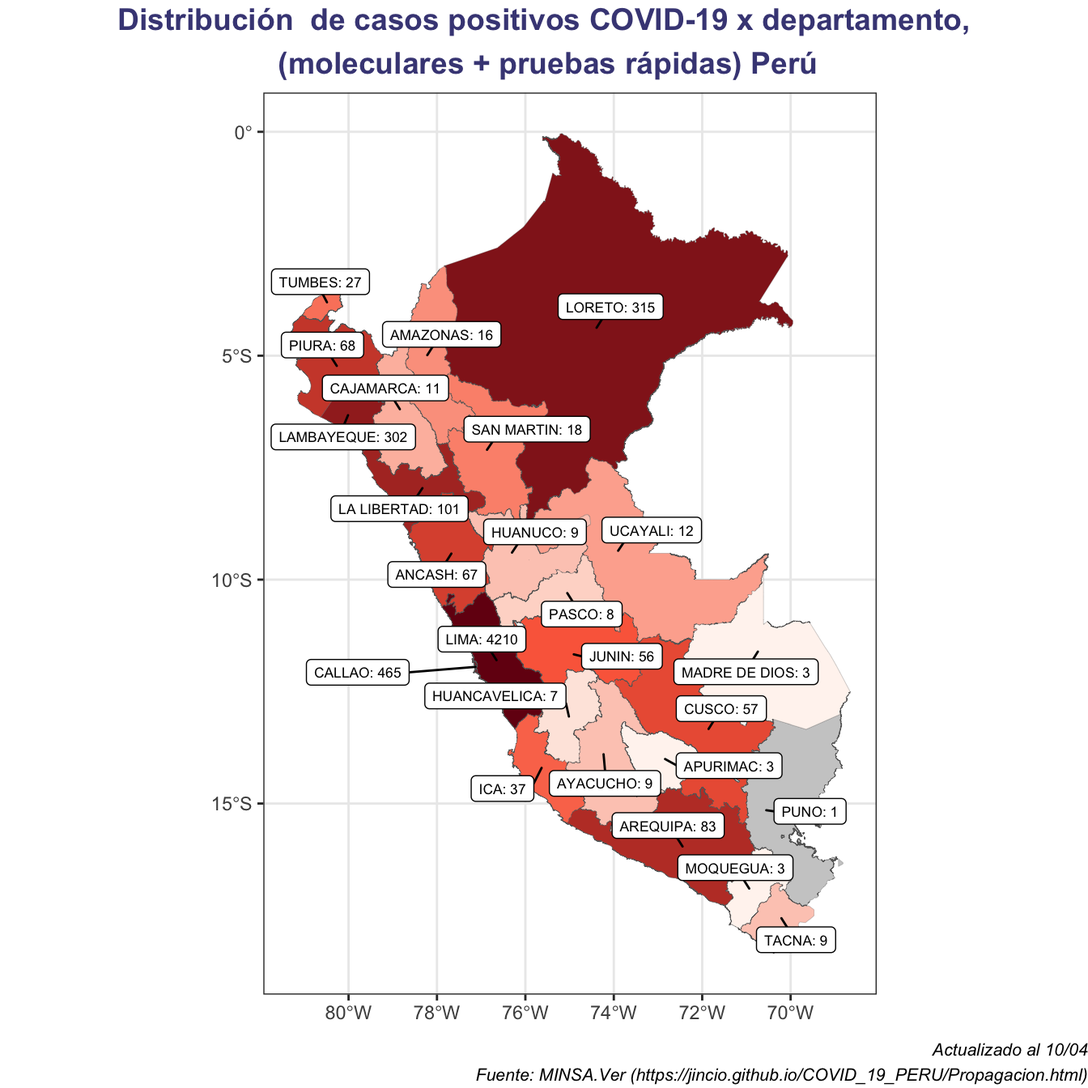
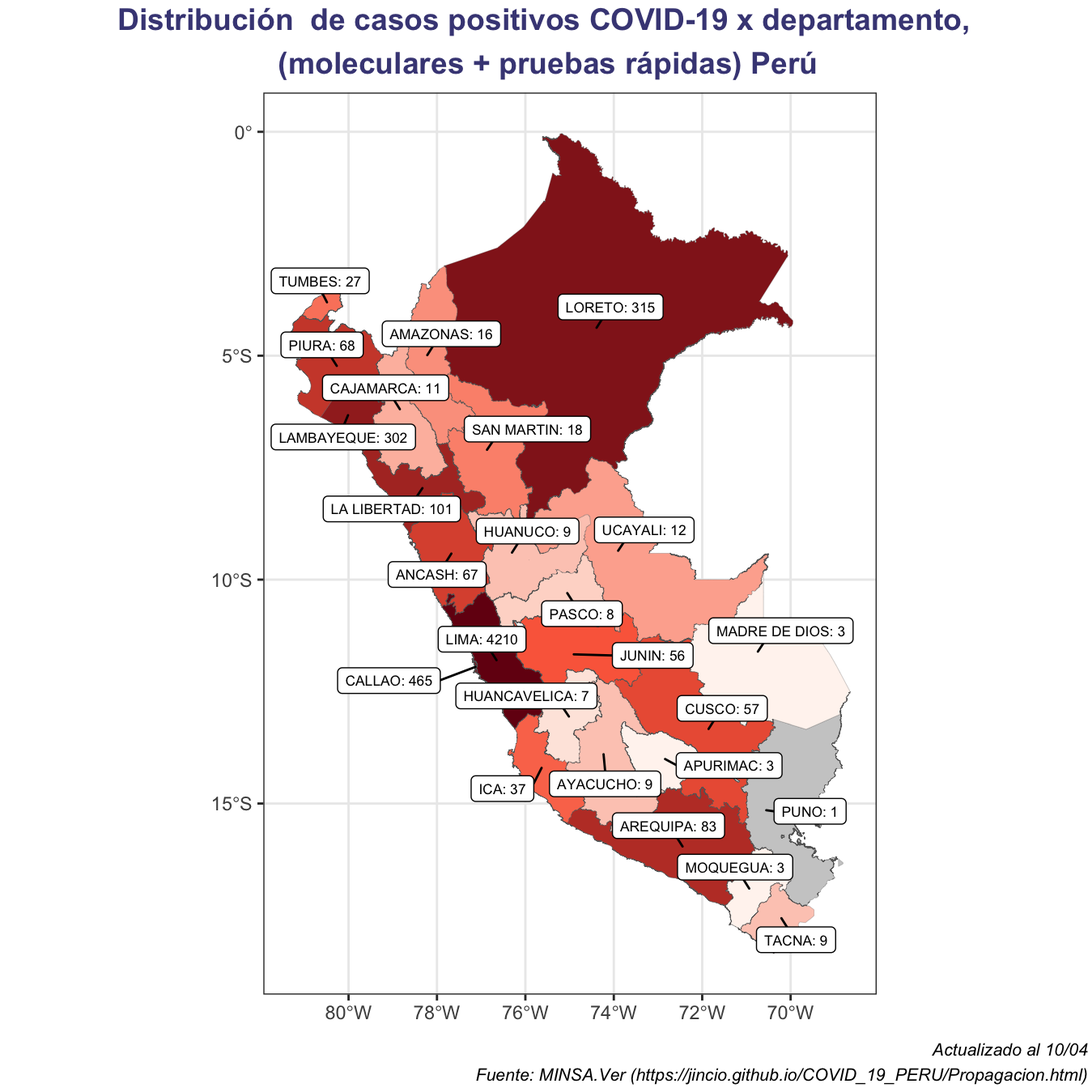
update gráficos departamentales

diff --git a/docs/Departamentos.html b/docs/Departamentos.html
@@ -384,7 +384,7 @@ div.tocify {
 <h1><span class="header-section-number">1</span> Mapa casos positivos</h1>
 <p><img src="Departamentos_files/figure-html/Panelm1-1.png" width="672" /></p>
 <div class="figure">
-<img src="Imagenes/peruheatmap-es-covid-enero-abril-6.gif" alt="Gif" />
+<img src="Imagenes/peruheatmap-es-covid-hasta-abril-9.gif" alt="Gif" />
 <p class="caption">Gif</p>
 </div>
 <div id="mapas-fallecidos" class="section level2">
@@ -396,9 +396,9 @@ div.tocify {
 <h1><span class="header-section-number">2</span> Tendencias por departamento</h1>
 <div id="comparadas-con-nacional-y-lima" class="section level2">
 <h2><span class="header-section-number">2.1</span> Comparadas con Nacional y Lima</h2>
-<p><img src="Imagenes/tendenciaCaso10-nacional-departamento-abril-8.png" width="80%" /></p>
-<p><img src="Imagenes/tendenciaCaso100-nacional-departamento-abril-8.png" width="80%" /></p>
-<p><img src="Imagenes/tendenciaFallecimiento3-nacional-departamento-abril-8.png" width="80%" /></p>
+<p><img src="Imagenes/tendenciaCaso10-nacional-departamento-abril-9.png" width="80%" /></p>
+<p><img src="Imagenes/tendenciaCaso100-nacional-departamento-abril-9.png" width="80%" /></p>
+<p><img src="Imagenes/tendenciaFallecimiento3-nacional-departamento-abril-9.png" width="80%" /></p>
 </div>
 <div id="por-macro-region" class="section level2">
 <h2><span class="header-section-number">2.2</span> Por Macro-Región</h2>
@@ -422,8 +422,8 @@ div.tocify {
 </div>
 <div id="tabla" class="section level1">
 <h1><span class="header-section-number">3</span> Tabla</h1>
-<div id="htmlwidget-d9958a0504077a23353c" style="width:100%;height:auto;" class="datatables html-widget"></div>
-<script type="application/json" data-for="htmlwidget-d9958a0504077a23353c">{"x":{"filter":"none","data":[["LIMA","LORETO","LAMBAYEQUE","CALLAO","LA LIBERTAD","AREQUIPA","PIURA","ANCASH","CUSCO","JUNIN","ICA","TUMBES","SAN MARTIN","AYACUCHO","TACNA","CAJAMARCA","PASCO","HUANCAVELICA","HUANUCO","AMAZONAS","MADRE DE DIOS","APURIMAC","MOQUEGUA","PUNO","UCAYALI","LIMA","LORETO","LAMBAYEQUE","CALLAO","LA LIBERTAD","AREQUIPA","CUSCO","ANCASH","PIURA","JUNIN","ICA","TUMBES","SAN MARTIN","TACNA","CAJAMARCA","AYACUCHO","HUANCAVELICA","HUANUCO","PASCO","MADRE DE DIOS","AMAZONAS","APURIMAC","MOQUEGUA","PUNO","LIMA","LORETO","LAMBAYEQUE","CALLAO","LA LIBERTAD","AREQUIPA","CUSCO","ANCASH","JUNIN","PIURA","ICA","TUMBES","SAN MARTIN","TACNA","CAJAMARCA","HUANCAVELICA","HUANUCO","AYACUCHO","PASCO","MADRE DE DIOS","AMAZONAS","APURIMAC","MOQUEGUA","PUNO","LIMA","LORETO","CALLAO","LAMBAYEQUE","AREQUIPA","LA LIBERTAD","CUSCO","ANCASH","PIURA","JUNIN","TUMBES","ICA","TACNA","SAN MARTIN","HUANCAVELICA","CAJAMARCA","HUANUCO","AYACUCHO","PASCO","MADRE DE DIOS","APURIMAC","MOQUEGUA","PUNO","LIMA","LORETO","CALLAO","LAMBAYEQUE","AREQUIPA","LA LIBERTAD","CUSCO","PIURA","JUNIN","ANCASH","TUMBES","ICA","TACNA","SAN MARTIN","CAJAMARCA","HUANUCO","AYACUCHO","PASCO","HUANCAVELICA","MADRE DE DIOS","APURIMAC","MOQUEGUA","LIMA","LORETO","LAMBAYEQUE","CALLAO","CUSCO","AREQUIPA","LA LIBERTAD","PIURA","TUMBES","JUNIN","ANCASH","ICA","TACNA","SAN MARTIN","CAJAMARCA","HUANUCO","AYACUCHO","PASCO","MADRE DE DIOS","HUANCAVELICA","APURIMAC","MOQUEGUA","LIMA","LORETO","CALLAO","LAMBAYEQUE","LA LIBERTAD","CUSCO","AREQUIPA","PIURA","JUNIN","TUMBES","ANCASH","ICA","SAN MARTIN","CAJAMARCA","HUANUCO","TACNA","MADRE DE DIOS","PASCO","AYACUCHO","HUANCAVELICA","APURIMAC","LIMA","LORETO","CALLAO","CUSCO","LA LIBERTAD","AREQUIPA","LAMBAYEQUE","PIURA","JUNIN","ANCASH","TUMBES","ICA","HUANUCO","SAN MARTIN","CAJAMARCA","TACNA","MADRE DE DIOS","AYACUCHO","HUANCAVELICA","PASCO","APURIMAC","LIMA","LORETO","CALLAO","CUSCO","LAMBAYEQUE","LA LIBERTAD","AREQUIPA","PIURA","JUNIN","ANCASH","TUMBES","ICA","HUANUCO","SAN MARTIN","CAJAMARCA","TACNA","MADRE DE DIOS","PASCO","AYACUCHO","HUANCAVELICA","LIMA","LORETO","CALLAO","LAMBAYEQUE","CUSCO","LA LIBERTAD","AREQUIPA","PIURA","JUNIN","ANCASH","TUMBES","ICA","HUANUCO","SAN MARTIN","TACNA","CAJAMARCA","MADRE DE DIOS","PASCO","AYACUCHO","HUANCAVELICA","LIMA","LORETO","LAMBAYEQUE","CUSCO","AREQUIPA","CALLAO","PIURA","LA LIBERTAD","JUNIN","ANCASH","TUMBES","HUANUCO","SAN MARTIN","ICA","TACNA","MADRE DE DIOS","CAJAMARCA","PASCO","AYACUCHO","LIMA","LORETO","CUSCO","CALLAO","LAMBAYEQUE","PIURA","AREQUIPA","LA LIBERTAD","JUNIN","ANCASH","TUMBES","ICA","SAN MARTIN","HUANUCO","MADRE DE DIOS","CAJAMARCA","PASCO","TACNA","AYACUCHO","LIMA","LORETO","CALLAO","LAMBAYEQUE","PIURA","CUSCO","AREQUIPA","JUNIN","LA LIBERTAD","TUMBES","ANCASH","ICA","HUANUCO","SAN MARTIN","MADRE DE DIOS","CAJAMARCA","PASCO","TACNA","AYACUCHO","LIMA","LORETO","PIURA","CALLAO","LAMBAYEQUE","AREQUIPA","JUNIN","CUSCO","LA LIBERTAD","ANCASH","TUMBES","HUANUCO","ICA","SAN MARTIN","MADRE DE DIOS","CAJAMARCA","PASCO","LIMA","LORETO","PIURA","CALLAO","AREQUIPA","LAMBAYEQUE","JUNIN","CUSCO","LA LIBERTAD","ANCASH","TUMBES","HUANUCO","ICA","MADRE DE DIOS","SAN MARTIN","CAJAMARCA","PASCO","LIMA","PIURA","LORETO","CALLAO","AREQUIPA","LAMBAYEQUE","JUNIN","CUSCO","LA LIBERTAD","ANCASH","ICA","TUMBES","HUANUCO","MADRE DE DIOS","SAN MARTIN","CAJAMARCA","LIMA","PIURA","LORETO","LAMBAYEQUE","JUNIN","CALLAO","CUSCO","AREQUIPA","LA LIBERTAD","ANCASH","TUMBES","HUANUCO","ICA","MADRE DE DIOS","SAN MARTIN","CAJAMARCA","LIMA","PIURA","LORETO","JUNIN","AREQUIPA","LAMBAYEQUE","CALLAO","CUSCO","LA LIBERTAD","ANCASH","TUMBES","HUANUCO","ICA","MADRE DE DIOS","SAN MARTIN","LIMA","PIURA","LORETO","JUNIN","LAMBAYEQUE","CALLAO","AREQUIPA","CUSCO","LA LIBERTAD","ANCASH","HUANUCO","ICA","MADRE DE DIOS","SAN MARTIN","LIMA","PIURA","LORETO","JUNIN","LAMBAYEQUE","AREQUIPA","CALLAO","LA LIBERTAD","CUSCO","ANCASH","HUANUCO","ICA","MADRE DE DIOS","LIMA","PIURA","LORETO","JUNIN","LAMBAYEQUE","CALLAO","LA LIBERTAD","CUSCO","ANCASH","AREQUIPA","HUANUCO","ICA","MADRE DE DIOS","LIMA","LORETO","JUNIN","LAMBAYEQUE","CALLAO","CUSCO","ANCASH","AREQUIPA","HUANUCO","LA LIBERTAD","PIURA","ICA","MADRE DE DIOS","LIMA","LORETO","LAMBAYEQUE","CALLAO","ANCASH","CUSCO","AREQUIPA","LA LIBERTAD","HUANUCO","PIURA","ICA","MADRE DE DIOS","SAN MARTIN","LIMA","LORETO","LAMBAYEQUE","CALLAO","ANCASH","AREQUIPA","HUANUCO","LA LIBERTAD","PIURA","CUSCO","ICA","MADRE DE DIOS","LIMA","LAMBAYEQUE","CALLAO","AREQUIPA","HUANUCO","PIURA","ANCASH","CUSCO","ICA","LA LIBERTAD","LORETO","LIMA","CALLAO","LAMBAYEQUE","AREQUIPA","HUANUCO","PIURA","ANCASH","CUSCO","ICA","LA LIBERTAD","LIMA","AREQUIPA","CALLAO","HUANUCO","PIURA","ANCASH","CUSCO","ICA","LA LIBERTAD","LAMBAYEQUE","LIMA","AREQUIPA","HUANUCO","CUSCO","ICA","LIMA","AREQUIPA","HUANUCO","CUSCO","ICA","LIMA","LIMA","LIMA","LIMA","LIMA","LIMA","LIMA"],[3148,314,294,250,87,75,64,61,57,55,37,27,18,9,9,8,8,7,7,7,3,2,1,1,0,2822,314,294,212,83,69,55,54,50,41,34,27,15,9,8,7,7,7,5,3,2,1,1,1,2481,289,243,165,72,67,54,48,41,40,28,27,11,9,8,7,7,5,5,2,2,1,1,1,2100,206,161,108,66,58,54,36,35,28,27,24,9,8,7,6,6,5,5,2,1,1,1,1837,171,109,100,60,56,54,30,28,27,26,18,9,8,6,6,5,5,2,2,1,1,1639,143,100,89,52,51,50,29,26,25,23,14,9,8,6,6,3,3,2,1,1,1,1257,106,64,55,50,48,37,27,25,20,18,9,8,6,6,3,2,2,1,1,1,1179,84,59,44,44,37,35,27,19,18,16,8,6,6,4,3,2,1,1,1,1,1059,72,40,38,37,34,30,27,17,15,15,8,6,6,3,3,1,1,1,1,990,66,37,34,34,32,30,26,17,15,13,8,6,6,3,2,1,1,1,1,799,58,30,26,26,25,21,19,17,11,10,6,6,5,2,1,1,1,1,718,53,25,24,22,21,21,15,13,11,8,5,5,4,1,1,1,1,1,639,52,29,22,21,17,15,13,13,8,6,5,4,3,1,1,1,1,1,518,27,20,18,15,15,12,11,10,6,6,4,4,2,1,1,1,494,23,20,17,15,13,12,10,9,6,5,4,3,1,1,1,1,453,20,18,15,15,12,11,10,9,6,3,3,2,1,1,1,369,19,18,12,11,10,10,10,6,5,3,2,2,1,1,1,322,19,16,10,9,8,8,6,5,4,3,2,2,1,1,307,19,16,10,8,8,7,6,4,4,2,2,1,1,278,19,16,10,8,7,6,5,4,4,4,1,1,241,18,14,10,8,6,5,4,4,4,2,1,1,212,12,9,6,5,4,4,3,2,2,2,1,1,193,11,6,5,4,4,3,2,2,2,1,1,1,111,10,6,5,2,2,2,2,2,1,1,1,96,6,4,2,2,2,1,1,1,1,1,70,3,3,2,2,2,1,1,1,1,58,2,2,2,2,1,1,1,1,1,37,2,2,1,1,32,2,2,1,1,22,17,11,9,7,6,1],[1062,1,8,215,14,8,4,6,0,1,0,0,0,0,0,3,0,0,2,9,0,1,2,0,12,882,1,8,201,13,8,0,3,3,1,0,0,0,0,3,0,0,2,0,0,8,0,2,0,535,1,3,155,10,7,0,2,1,1,0,0,0,0,2,0,0,0,0,0,9,0,2,0,null,null,null,null,null,null,null,null,null,null,null,null,null,null,null,null,null,null,null,null,null,null,null,null,null,null,null,null,null,null,null,null,null,null,null,null,null,null,null,null,null,null,null,null,null,null,null,null,null,null,null,null,null,null,null,null,null,null,null,null,null,null,null,null,null,null,null,null,null,null,null,null,null,null,null,null,null,null,null,null,null,null,null,null,null,null,null,null,null,null,null,null,null,null,null,null,null,null,null,null,null,null,null,null,null,null,null,null,null,null,null,null,null,null,null,null,null,null,null,null,null,null,null,null,null,null,null,null,null,null,null,null,null,null,null,null,null,null,null,null,null,null,null,null,null,null,null,null,null,null,null,null,null,null,null,null,null,null,null,null,null,null,null,null,null,null,null,null,null,null,null,null,null,null,null,null,null,null,null,null,null,null,null,null,null,null,null,null,null,null,null,null,null,null,null,null,null,null,null,null,null,null,null,null,null,null,null,null,null,null,null,null,null,null,null,null,null,null,null,null,null,null,null,null,null,null,null,null,null,null,null,null,null,null,null,null,null,null,null,null,null,null,null,null,null,null,null,null,null,null,null,null,null,null,null,null,null,null,null,null,null,null,null,null,null,null,null,null,null,null,null,null,null,null,null,null,null,null,null,null,null,null,null,null,null,null,null,null,null,null,null,null,null,null,null,null,null,null,null,null,null,null,null,null,null,null,null,null,null,null,null,null,null,null,null,null,null,null,null,null,null,null,null,null,null,null,null,null,null,null,null,null,null,null,null,null,null,null,null,null,null,null,null,null,null,null,null,null,null,null,null,null,null,null,null,null,null,null,null,null,null,null,null,null,null,null,null,null,null,null,null,null,null,null,null,null,null,null,null,null,null,null,null,null,null,null,null,null,null,null,null,null,null,null,null,null,null,null,null,null,null,null,null,null,null,null,null,null,null,null,null,null,null],[4210,315,302,465,101,83,68,67,57,56,37,27,18,9,9,11,8,7,9,16,3,3,3,1,12,3704,315,302,413,96,77,55,57,53,42,34,27,15,9,11,7,7,9,5,3,10,1,3,1,3016,290,246,320,82,74,54,50,42,41,28,27,11,9,10,7,7,5,5,2,11,1,3,1,2100,206,161,108,66,58,54,36,35,28,27,24,9,8,7,6,6,5,5,2,1,1,1,1837,171,109,100,60,56,54,30,28,27,26,18,9,8,6,6,5,5,2,2,1,1,1639,143,100,89,52,51,50,29,26,25,23,14,9,8,6,6,3,3,2,1,1,1,1257,106,64,55,50,48,37,27,25,20,18,9,8,6,6,3,2,2,1,1,1,1179,84,59,44,44,37,35,27,19,18,16,8,6,6,4,3,2,1,1,1,1,1059,72,40,38,37,34,30,27,17,15,15,8,6,6,3,3,1,1,1,1,990,66,37,34,34,32,30,26,17,15,13,8,6,6,3,2,1,1,1,1,799,58,30,26,26,25,21,19,17,11,10,6,6,5,2,1,1,1,1,718,53,25,24,22,21,21,15,13,11,8,5,5,4,1,1,1,1,1,639,52,29,22,21,17,15,13,13,8,6,5,4,3,1,1,1,1,1,518,27,20,18,15,15,12,11,10,6,6,4,4,2,1,1,1,494,23,20,17,15,13,12,10,9,6,5,4,3,1,1,1,1,453,20,18,15,15,12,11,10,9,6,3,3,2,1,1,1,369,19,18,12,11,10,10,10,6,5,3,2,2,1,1,1,322,19,16,10,9,8,8,6,5,4,3,2,2,1,1,307,19,16,10,8,8,7,6,4,4,2,2,1,1,278,19,16,10,8,7,6,5,4,4,4,1,1,241,18,14,10,8,6,5,4,4,4,2,1,1,212,12,9,6,5,4,4,3,2,2,2,1,1,193,11,6,5,4,4,3,2,2,2,1,1,1,111,10,6,5,2,2,2,2,2,1,1,1,96,6,4,2,2,2,1,1,1,1,1,70,3,3,2,2,2,1,1,1,1,58,2,2,2,2,1,1,1,1,1,37,2,2,1,1,32,2,2,1,1,22,17,11,9,7,6,1],["2020-04-10","2020-04-10","2020-04-10","2020-04-10","2020-04-10","2020-04-10","2020-04-10","2020-04-10","2020-04-10","2020-04-10","2020-04-10","2020-04-10","2020-04-10","2020-04-10","2020-04-10","2020-04-10","2020-04-10","2020-04-10","2020-04-10","2020-04-10","2020-04-10","2020-04-10","2020-04-10","2020-04-10","2020-04-10","2020-04-09","2020-04-09","2020-04-09","2020-04-09","2020-04-09","2020-04-09","2020-04-09","2020-04-09","2020-04-09","2020-04-09","2020-04-09","2020-04-09","2020-04-09","2020-04-09","2020-04-09","2020-04-09","2020-04-09","2020-04-09","2020-04-09","2020-04-09","2020-04-09","2020-04-09","2020-04-09","2020-04-09","2020-04-08","2020-04-08","2020-04-08","2020-04-08","2020-04-08","2020-04-08","2020-04-08","2020-04-08","2020-04-08","2020-04-08","2020-04-08","2020-04-08","2020-04-08","2020-04-08","2020-04-08","2020-04-08","2020-04-08","2020-04-08","2020-04-08","2020-04-08","2020-04-08","2020-04-08","2020-04-08","2020-04-08","2020-04-07","2020-04-07","2020-04-07","2020-04-07","2020-04-07","2020-04-07","2020-04-07","2020-04-07","2020-04-07","2020-04-07","2020-04-07","2020-04-07","2020-04-07","2020-04-07","2020-04-07","2020-04-07","2020-04-07","2020-04-07","2020-04-07","2020-04-07","2020-04-07","2020-04-07","2020-04-07","2020-04-06","2020-04-06","2020-04-06","2020-04-06","2020-04-06","2020-04-06","2020-04-06","2020-04-06","2020-04-06","2020-04-06","2020-04-06","2020-04-06","2020-04-06","2020-04-06","2020-04-06","2020-04-06","2020-04-06","2020-04-06","2020-04-06","2020-04-06","2020-04-06","2020-04-06","2020-04-05","2020-04-05","2020-04-05","2020-04-05","2020-04-05","2020-04-05","2020-04-05","2020-04-05","2020-04-05","2020-04-05","2020-04-05","2020-04-05","2020-04-05","2020-04-05","2020-04-05","2020-04-05","2020-04-05","2020-04-05","2020-04-05","2020-04-05","2020-04-05","2020-04-05","2020-04-04","2020-04-04","2020-04-04","2020-04-04","2020-04-04","2020-04-04","2020-04-04","2020-04-04","2020-04-04","2020-04-04","2020-04-04","2020-04-04","2020-04-04","2020-04-04","2020-04-04","2020-04-04","2020-04-04","2020-04-04","2020-04-04","2020-04-04","2020-04-04","2020-04-03","2020-04-03","2020-04-03","2020-04-03","2020-04-03","2020-04-03","2020-04-03","2020-04-03","2020-04-03","2020-04-03","2020-04-03","2020-04-03","2020-04-03","2020-04-03","2020-04-03","2020-04-03","2020-04-03","2020-04-03","2020-04-03","2020-04-03","2020-04-03","2020-04-02","2020-04-02","2020-04-02","2020-04-02","2020-04-02","2020-04-02","2020-04-02","2020-04-02","2020-04-02","2020-04-02","2020-04-02","2020-04-02","2020-04-02","2020-04-02","2020-04-02","2020-04-02","2020-04-02","2020-04-02","2020-04-02","2020-04-02","2020-04-01","2020-04-01","2020-04-01","2020-04-01","2020-04-01","2020-04-01","2020-04-01","2020-04-01","2020-04-01","2020-04-01","2020-04-01","2020-04-01","2020-04-01","2020-04-01","2020-04-01","2020-04-01","2020-04-01","2020-04-01","2020-04-01","2020-04-01","2020-03-31","2020-03-31","2020-03-31","2020-03-31","2020-03-31","2020-03-31","2020-03-31","2020-03-31","2020-03-31","2020-03-31","2020-03-31","2020-03-31","2020-03-31","2020-03-31","2020-03-31","2020-03-31","2020-03-31","2020-03-31","2020-03-31","2020-03-30","2020-03-30","2020-03-30","2020-03-30","2020-03-30","2020-03-30","2020-03-30","2020-03-30","2020-03-30","2020-03-30","2020-03-30","2020-03-30","2020-03-30","2020-03-30","2020-03-30","2020-03-30","2020-03-30","2020-03-30","2020-03-30","2020-03-29","2020-03-29","2020-03-29","2020-03-29","2020-03-29","2020-03-29","2020-03-29","2020-03-29","2020-03-29","2020-03-29","2020-03-29","2020-03-29","2020-03-29","2020-03-29","2020-03-29","2020-03-29","2020-03-29","2020-03-29","2020-03-29","2020-03-28","2020-03-28","2020-03-28","2020-03-28","2020-03-28","2020-03-28","2020-03-28","2020-03-28","2020-03-28","2020-03-28","2020-03-28","2020-03-28","2020-03-28","2020-03-28","2020-03-28","2020-03-28","2020-03-28","2020-03-27","2020-03-27","2020-03-27","2020-03-27","2020-03-27","2020-03-27","2020-03-27","2020-03-27","2020-03-27","2020-03-27","2020-03-27","2020-03-27","2020-03-27","2020-03-27","2020-03-27","2020-03-27","2020-03-27","2020-03-26","2020-03-26","2020-03-26","2020-03-26","2020-03-26","2020-03-26","2020-03-26","2020-03-26","2020-03-26","2020-03-26","2020-03-26","2020-03-26","2020-03-26","2020-03-26","2020-03-26","2020-03-26","2020-03-25","2020-03-25","2020-03-25","2020-03-25","2020-03-25","2020-03-25","2020-03-25","2020-03-25","2020-03-25","2020-03-25","2020-03-25","2020-03-25","2020-03-25","2020-03-25","2020-03-25","2020-03-25","2020-03-24","2020-03-24","2020-03-24","2020-03-24","2020-03-24","2020-03-24","2020-03-24","2020-03-24","2020-03-24","2020-03-24","2020-03-24","2020-03-24","2020-03-24","2020-03-24","2020-03-24","2020-03-23","2020-03-23","2020-03-23","2020-03-23","2020-03-23","2020-03-23","2020-03-23","2020-03-23","2020-03-23","2020-03-23","2020-03-23","2020-03-23","2020-03-23","2020-03-23","2020-03-22","2020-03-22","2020-03-22","2020-03-22","2020-03-22","2020-03-22","2020-03-22","2020-03-22","2020-03-22","2020-03-22","2020-03-22","2020-03-22","2020-03-22","2020-03-21","2020-03-21","2020-03-21","2020-03-21","2020-03-21","2020-03-21","2020-03-21","2020-03-21","2020-03-21","2020-03-21","2020-03-21","2020-03-21","2020-03-21","2020-03-20","2020-03-20","2020-03-20","2020-03-20","2020-03-20","2020-03-20","2020-03-20","2020-03-20","2020-03-20","2020-03-20","2020-03-20","2020-03-20","2020-03-20","2020-03-19","2020-03-19","2020-03-19","2020-03-19","2020-03-19","2020-03-19","2020-03-19","2020-03-19","2020-03-19","2020-03-19","2020-03-19","2020-03-19","2020-03-19","2020-03-18","2020-03-18","2020-03-18","2020-03-18","2020-03-18","2020-03-18","2020-03-18","2020-03-18","2020-03-18","2020-03-18","2020-03-18","2020-03-18","2020-03-17","2020-03-17","2020-03-17","2020-03-17","2020-03-17","2020-03-17","2020-03-17","2020-03-17","2020-03-17","2020-03-17","2020-03-17","2020-03-16","2020-03-16","2020-03-16","2020-03-16","2020-03-16","2020-03-16","2020-03-16","2020-03-16","2020-03-16","2020-03-16","2020-03-15","2020-03-15","2020-03-15","2020-03-15","2020-03-15","2020-03-15","2020-03-15","2020-03-15","2020-03-15","2020-03-15","2020-03-14","2020-03-14","2020-03-14","2020-03-14","2020-03-14","2020-03-13","2020-03-13","2020-03-13","2020-03-13","2020-03-13","2020-03-12","2020-03-11","2020-03-10","2020-03-09","2020-03-08","2020-03-07","2020-03-06"]],"container":"<table class=\"display\">\n  <thead>\n    <tr>\n      <th>REGION<\/th>\n      <th>Positivos_PCR<\/th>\n      <th>Positivos_PR<\/th>\n      <th>Positivos_totales<\/th>\n      <th>Dia<\/th>\n    <\/tr>\n  <\/thead>\n<\/table>","options":{"pageLength":10,"lengthMenu":[10,25,40],"language":{"lengthMenu":"Mostrar _MENU_ entradas","info":"Mostrando _START_ al _END_ de _TOTAL_ entradas","search":"Buscar:","paginate":{"previous":"Anterior","next":"Siguiente"}},"columnDefs":[{"className":"dt-right","targets":[1,2,3]}],"order":[],"autoWidth":false,"orderClasses":false}},"evals":[],"jsHooks":[]}</script>
+<div id="htmlwidget-1ff28c8acfaf17acd462" style="width:100%;height:auto;" class="datatables html-widget"></div>
+<script type="application/json" data-for="htmlwidget-1ff28c8acfaf17acd462">{"x":{"filter":"none","data":[["LIMA","LORETO","LAMBAYEQUE","CALLAO","LA LIBERTAD","AREQUIPA","PIURA","ANCASH","CUSCO","JUNIN","ICA","TUMBES","SAN MARTIN","AYACUCHO","TACNA","CAJAMARCA","PASCO","HUANCAVELICA","HUANUCO","AMAZONAS","MADRE DE DIOS","APURIMAC","MOQUEGUA","PUNO","UCAYALI","LIMA","LORETO","LAMBAYEQUE","CALLAO","LA LIBERTAD","AREQUIPA","CUSCO","ANCASH","PIURA","JUNIN","ICA","TUMBES","SAN MARTIN","TACNA","CAJAMARCA","AYACUCHO","HUANCAVELICA","HUANUCO","PASCO","MADRE DE DIOS","AMAZONAS","APURIMAC","MOQUEGUA","PUNO","LIMA","LORETO","LAMBAYEQUE","CALLAO","LA LIBERTAD","AREQUIPA","CUSCO","ANCASH","JUNIN","PIURA","ICA","TUMBES","SAN MARTIN","TACNA","CAJAMARCA","HUANCAVELICA","HUANUCO","AYACUCHO","PASCO","MADRE DE DIOS","AMAZONAS","APURIMAC","MOQUEGUA","PUNO","LIMA","LORETO","CALLAO","LAMBAYEQUE","AREQUIPA","LA LIBERTAD","CUSCO","ANCASH","PIURA","JUNIN","TUMBES","ICA","TACNA","SAN MARTIN","HUANCAVELICA","CAJAMARCA","HUANUCO","AYACUCHO","PASCO","MADRE DE DIOS","APURIMAC","MOQUEGUA","PUNO","LIMA","LORETO","CALLAO","LAMBAYEQUE","AREQUIPA","LA LIBERTAD","CUSCO","PIURA","JUNIN","ANCASH","TUMBES","ICA","TACNA","SAN MARTIN","CAJAMARCA","HUANUCO","AYACUCHO","PASCO","HUANCAVELICA","MADRE DE DIOS","APURIMAC","MOQUEGUA","LIMA","LORETO","LAMBAYEQUE","CALLAO","CUSCO","AREQUIPA","LA LIBERTAD","PIURA","TUMBES","JUNIN","ANCASH","ICA","TACNA","SAN MARTIN","CAJAMARCA","HUANUCO","AYACUCHO","PASCO","MADRE DE DIOS","HUANCAVELICA","APURIMAC","MOQUEGUA","LIMA","LORETO","CALLAO","LAMBAYEQUE","LA LIBERTAD","CUSCO","AREQUIPA","PIURA","JUNIN","TUMBES","ANCASH","ICA","SAN MARTIN","CAJAMARCA","HUANUCO","TACNA","MADRE DE DIOS","PASCO","AYACUCHO","HUANCAVELICA","APURIMAC","LIMA","LORETO","CALLAO","CUSCO","LA LIBERTAD","AREQUIPA","LAMBAYEQUE","PIURA","JUNIN","ANCASH","TUMBES","ICA","HUANUCO","SAN MARTIN","CAJAMARCA","TACNA","MADRE DE DIOS","AYACUCHO","HUANCAVELICA","PASCO","APURIMAC","LIMA","LORETO","CALLAO","CUSCO","LAMBAYEQUE","LA LIBERTAD","AREQUIPA","PIURA","JUNIN","ANCASH","TUMBES","ICA","HUANUCO","SAN MARTIN","CAJAMARCA","TACNA","MADRE DE DIOS","PASCO","AYACUCHO","HUANCAVELICA","LIMA","LORETO","CALLAO","LAMBAYEQUE","CUSCO","LA LIBERTAD","AREQUIPA","PIURA","JUNIN","ANCASH","TUMBES","ICA","HUANUCO","SAN MARTIN","TACNA","CAJAMARCA","MADRE DE DIOS","PASCO","AYACUCHO","HUANCAVELICA","LIMA","LORETO","LAMBAYEQUE","CUSCO","AREQUIPA","CALLAO","PIURA","LA LIBERTAD","JUNIN","ANCASH","TUMBES","HUANUCO","SAN MARTIN","ICA","TACNA","MADRE DE DIOS","CAJAMARCA","PASCO","AYACUCHO","LIMA","LORETO","CUSCO","CALLAO","LAMBAYEQUE","PIURA","AREQUIPA","LA LIBERTAD","JUNIN","ANCASH","TUMBES","ICA","SAN MARTIN","HUANUCO","MADRE DE DIOS","CAJAMARCA","PASCO","TACNA","AYACUCHO","LIMA","LORETO","CALLAO","LAMBAYEQUE","PIURA","CUSCO","AREQUIPA","JUNIN","LA LIBERTAD","TUMBES","ANCASH","ICA","HUANUCO","SAN MARTIN","MADRE DE DIOS","CAJAMARCA","PASCO","TACNA","AYACUCHO","LIMA","LORETO","PIURA","CALLAO","LAMBAYEQUE","AREQUIPA","JUNIN","CUSCO","LA LIBERTAD","ANCASH","TUMBES","HUANUCO","ICA","SAN MARTIN","MADRE DE DIOS","CAJAMARCA","PASCO","LIMA","LORETO","PIURA","CALLAO","AREQUIPA","LAMBAYEQUE","JUNIN","CUSCO","LA LIBERTAD","ANCASH","TUMBES","HUANUCO","ICA","MADRE DE DIOS","SAN MARTIN","CAJAMARCA","PASCO","LIMA","PIURA","LORETO","CALLAO","AREQUIPA","LAMBAYEQUE","JUNIN","CUSCO","LA LIBERTAD","ANCASH","ICA","TUMBES","HUANUCO","MADRE DE DIOS","SAN MARTIN","CAJAMARCA","LIMA","PIURA","LORETO","LAMBAYEQUE","JUNIN","CALLAO","CUSCO","AREQUIPA","LA LIBERTAD","ANCASH","TUMBES","HUANUCO","ICA","MADRE DE DIOS","SAN MARTIN","CAJAMARCA","LIMA","PIURA","LORETO","JUNIN","AREQUIPA","LAMBAYEQUE","CALLAO","CUSCO","LA LIBERTAD","ANCASH","TUMBES","HUANUCO","ICA","MADRE DE DIOS","SAN MARTIN","LIMA","PIURA","LORETO","JUNIN","LAMBAYEQUE","CALLAO","AREQUIPA","CUSCO","LA LIBERTAD","ANCASH","HUANUCO","ICA","MADRE DE DIOS","SAN MARTIN","LIMA","PIURA","LORETO","JUNIN","LAMBAYEQUE","AREQUIPA","CALLAO","LA LIBERTAD","CUSCO","ANCASH","HUANUCO","ICA","MADRE DE DIOS","LIMA","PIURA","LORETO","JUNIN","LAMBAYEQUE","CALLAO","LA LIBERTAD","CUSCO","ANCASH","AREQUIPA","HUANUCO","ICA","MADRE DE DIOS","LIMA","LORETO","JUNIN","LAMBAYEQUE","CALLAO","CUSCO","ANCASH","AREQUIPA","HUANUCO","LA LIBERTAD","PIURA","ICA","MADRE DE DIOS","LIMA","LORETO","LAMBAYEQUE","CALLAO","ANCASH","CUSCO","AREQUIPA","LA LIBERTAD","HUANUCO","PIURA","ICA","MADRE DE DIOS","SAN MARTIN","LIMA","LORETO","LAMBAYEQUE","CALLAO","ANCASH","AREQUIPA","HUANUCO","LA LIBERTAD","PIURA","CUSCO","ICA","MADRE DE DIOS","LIMA","LAMBAYEQUE","CALLAO","AREQUIPA","HUANUCO","PIURA","ANCASH","CUSCO","ICA","LA LIBERTAD","LORETO","LIMA","CALLAO","LAMBAYEQUE","AREQUIPA","HUANUCO","PIURA","ANCASH","CUSCO","ICA","LA LIBERTAD","LIMA","AREQUIPA","CALLAO","HUANUCO","PIURA","ANCASH","CUSCO","ICA","LA LIBERTAD","LAMBAYEQUE","LIMA","AREQUIPA","HUANUCO","CUSCO","ICA","LIMA","AREQUIPA","HUANUCO","CUSCO","ICA","LIMA","LIMA","LIMA","LIMA","LIMA","LIMA","LIMA"],[3148,314,294,250,87,75,64,61,57,55,37,27,18,9,9,8,8,7,7,7,3,2,1,1,0,2822,314,294,212,83,69,55,54,50,41,34,27,15,9,8,7,7,7,5,3,2,1,1,1,2481,289,243,165,72,67,54,48,41,40,28,27,11,9,8,7,7,5,5,2,2,1,1,1,2100,206,161,108,66,58,54,36,35,28,27,24,9,8,7,6,6,5,5,2,1,1,1,1837,171,109,100,60,56,54,30,28,27,26,18,9,8,6,6,5,5,2,2,1,1,1639,143,100,89,52,51,50,29,26,25,23,14,9,8,6,6,3,3,2,1,1,1,1257,106,64,55,50,48,37,27,25,20,18,9,8,6,6,3,2,2,1,1,1,1179,84,59,44,44,37,35,27,19,18,16,8,6,6,4,3,2,1,1,1,1,1059,72,40,38,37,34,30,27,17,15,15,8,6,6,3,3,1,1,1,1,990,66,37,34,34,32,30,26,17,15,13,8,6,6,3,2,1,1,1,1,799,58,30,26,26,25,21,19,17,11,10,6,6,5,2,1,1,1,1,718,53,25,24,22,21,21,15,13,11,8,5,5,4,1,1,1,1,1,639,52,29,22,21,17,15,13,13,8,6,5,4,3,1,1,1,1,1,518,27,20,18,15,15,12,11,10,6,6,4,4,2,1,1,1,494,23,20,17,15,13,12,10,9,6,5,4,3,1,1,1,1,453,20,18,15,15,12,11,10,9,6,3,3,2,1,1,1,369,19,18,12,11,10,10,10,6,5,3,2,2,1,1,1,322,19,16,10,9,8,8,6,5,4,3,2,2,1,1,307,19,16,10,8,8,7,6,4,4,2,2,1,1,278,19,16,10,8,7,6,5,4,4,4,1,1,241,18,14,10,8,6,5,4,4,4,2,1,1,212,12,9,6,5,4,4,3,2,2,2,1,1,193,11,6,5,4,4,3,2,2,2,1,1,1,111,10,6,5,2,2,2,2,2,1,1,1,96,6,4,2,2,2,1,1,1,1,1,70,3,3,2,2,2,1,1,1,1,58,2,2,2,2,1,1,1,1,1,37,2,2,1,1,32,2,2,1,1,22,17,11,9,7,6,1],[1062,1,8,215,14,8,4,6,0,1,0,0,0,0,0,3,0,0,2,9,0,1,2,0,12,882,1,8,201,13,8,0,3,3,1,0,0,0,0,3,0,0,2,0,0,8,0,2,0,535,1,3,155,10,7,0,2,1,1,0,0,0,0,2,0,0,0,0,0,9,0,2,0,null,null,null,null,null,null,null,null,null,null,null,null,null,null,null,null,null,null,null,null,null,null,null,null,null,null,null,null,null,null,null,null,null,null,null,null,null,null,null,null,null,null,null,null,null,null,null,null,null,null,null,null,null,null,null,null,null,null,null,null,null,null,null,null,null,null,null,null,null,null,null,null,null,null,null,null,null,null,null,null,null,null,null,null,null,null,null,null,null,null,null,null,null,null,null,null,null,null,null,null,null,null,null,null,null,null,null,null,null,null,null,null,null,null,null,null,null,null,null,null,null,null,null,null,null,null,null,null,null,null,null,null,null,null,null,null,null,null,null,null,null,null,null,null,null,null,null,null,null,null,null,null,null,null,null,null,null,null,null,null,null,null,null,null,null,null,null,null,null,null,null,null,null,null,null,null,null,null,null,null,null,null,null,null,null,null,null,null,null,null,null,null,null,null,null,null,null,null,null,null,null,null,null,null,null,null,null,null,null,null,null,null,null,null,null,null,null,null,null,null,null,null,null,null,null,null,null,null,null,null,null,null,null,null,null,null,null,null,null,null,null,null,null,null,null,null,null,null,null,null,null,null,null,null,null,null,null,null,null,null,null,null,null,null,null,null,null,null,null,null,null,null,null,null,null,null,null,null,null,null,null,null,null,null,null,null,null,null,null,null,null,null,null,null,null,null,null,null,null,null,null,null,null,null,null,null,null,null,null,null,null,null,null,null,null,null,null,null,null,null,null,null,null,null,null,null,null,null,null,null,null,null,null,null,null,null,null,null,null,null,null,null,null,null,null,null,null,null,null,null,null,null,null,null,null,null,null,null,null,null,null,null,null,null,null,null,null,null,null,null,null,null,null,null,null,null,null,null,null,null,null,null,null,null,null,null,null,null,null,null,null,null,null,null,null,null,null,null,null,null,null,null,null,null,null,null,null,null,null,null,null,null,null],[4210,315,302,465,101,83,68,67,57,56,37,27,18,9,9,11,8,7,9,16,3,3,3,1,12,3704,315,302,413,96,77,55,57,53,42,34,27,15,9,11,7,7,9,5,3,10,1,3,1,3016,290,246,320,82,74,54,50,42,41,28,27,11,9,10,7,7,5,5,2,11,1,3,1,2100,206,161,108,66,58,54,36,35,28,27,24,9,8,7,6,6,5,5,2,1,1,1,1837,171,109,100,60,56,54,30,28,27,26,18,9,8,6,6,5,5,2,2,1,1,1639,143,100,89,52,51,50,29,26,25,23,14,9,8,6,6,3,3,2,1,1,1,1257,106,64,55,50,48,37,27,25,20,18,9,8,6,6,3,2,2,1,1,1,1179,84,59,44,44,37,35,27,19,18,16,8,6,6,4,3,2,1,1,1,1,1059,72,40,38,37,34,30,27,17,15,15,8,6,6,3,3,1,1,1,1,990,66,37,34,34,32,30,26,17,15,13,8,6,6,3,2,1,1,1,1,799,58,30,26,26,25,21,19,17,11,10,6,6,5,2,1,1,1,1,718,53,25,24,22,21,21,15,13,11,8,5,5,4,1,1,1,1,1,639,52,29,22,21,17,15,13,13,8,6,5,4,3,1,1,1,1,1,518,27,20,18,15,15,12,11,10,6,6,4,4,2,1,1,1,494,23,20,17,15,13,12,10,9,6,5,4,3,1,1,1,1,453,20,18,15,15,12,11,10,9,6,3,3,2,1,1,1,369,19,18,12,11,10,10,10,6,5,3,2,2,1,1,1,322,19,16,10,9,8,8,6,5,4,3,2,2,1,1,307,19,16,10,8,8,7,6,4,4,2,2,1,1,278,19,16,10,8,7,6,5,4,4,4,1,1,241,18,14,10,8,6,5,4,4,4,2,1,1,212,12,9,6,5,4,4,3,2,2,2,1,1,193,11,6,5,4,4,3,2,2,2,1,1,1,111,10,6,5,2,2,2,2,2,1,1,1,96,6,4,2,2,2,1,1,1,1,1,70,3,3,2,2,2,1,1,1,1,58,2,2,2,2,1,1,1,1,1,37,2,2,1,1,32,2,2,1,1,22,17,11,9,7,6,1],["2020-04-10","2020-04-10","2020-04-10","2020-04-10","2020-04-10","2020-04-10","2020-04-10","2020-04-10","2020-04-10","2020-04-10","2020-04-10","2020-04-10","2020-04-10","2020-04-10","2020-04-10","2020-04-10","2020-04-10","2020-04-10","2020-04-10","2020-04-10","2020-04-10","2020-04-10","2020-04-10","2020-04-10","2020-04-10","2020-04-09","2020-04-09","2020-04-09","2020-04-09","2020-04-09","2020-04-09","2020-04-09","2020-04-09","2020-04-09","2020-04-09","2020-04-09","2020-04-09","2020-04-09","2020-04-09","2020-04-09","2020-04-09","2020-04-09","2020-04-09","2020-04-09","2020-04-09","2020-04-09","2020-04-09","2020-04-09","2020-04-09","2020-04-08","2020-04-08","2020-04-08","2020-04-08","2020-04-08","2020-04-08","2020-04-08","2020-04-08","2020-04-08","2020-04-08","2020-04-08","2020-04-08","2020-04-08","2020-04-08","2020-04-08","2020-04-08","2020-04-08","2020-04-08","2020-04-08","2020-04-08","2020-04-08","2020-04-08","2020-04-08","2020-04-08","2020-04-07","2020-04-07","2020-04-07","2020-04-07","2020-04-07","2020-04-07","2020-04-07","2020-04-07","2020-04-07","2020-04-07","2020-04-07","2020-04-07","2020-04-07","2020-04-07","2020-04-07","2020-04-07","2020-04-07","2020-04-07","2020-04-07","2020-04-07","2020-04-07","2020-04-07","2020-04-07","2020-04-06","2020-04-06","2020-04-06","2020-04-06","2020-04-06","2020-04-06","2020-04-06","2020-04-06","2020-04-06","2020-04-06","2020-04-06","2020-04-06","2020-04-06","2020-04-06","2020-04-06","2020-04-06","2020-04-06","2020-04-06","2020-04-06","2020-04-06","2020-04-06","2020-04-06","2020-04-05","2020-04-05","2020-04-05","2020-04-05","2020-04-05","2020-04-05","2020-04-05","2020-04-05","2020-04-05","2020-04-05","2020-04-05","2020-04-05","2020-04-05","2020-04-05","2020-04-05","2020-04-05","2020-04-05","2020-04-05","2020-04-05","2020-04-05","2020-04-05","2020-04-05","2020-04-04","2020-04-04","2020-04-04","2020-04-04","2020-04-04","2020-04-04","2020-04-04","2020-04-04","2020-04-04","2020-04-04","2020-04-04","2020-04-04","2020-04-04","2020-04-04","2020-04-04","2020-04-04","2020-04-04","2020-04-04","2020-04-04","2020-04-04","2020-04-04","2020-04-03","2020-04-03","2020-04-03","2020-04-03","2020-04-03","2020-04-03","2020-04-03","2020-04-03","2020-04-03","2020-04-03","2020-04-03","2020-04-03","2020-04-03","2020-04-03","2020-04-03","2020-04-03","2020-04-03","2020-04-03","2020-04-03","2020-04-03","2020-04-03","2020-04-02","2020-04-02","2020-04-02","2020-04-02","2020-04-02","2020-04-02","2020-04-02","2020-04-02","2020-04-02","2020-04-02","2020-04-02","2020-04-02","2020-04-02","2020-04-02","2020-04-02","2020-04-02","2020-04-02","2020-04-02","2020-04-02","2020-04-02","2020-04-01","2020-04-01","2020-04-01","2020-04-01","2020-04-01","2020-04-01","2020-04-01","2020-04-01","2020-04-01","2020-04-01","2020-04-01","2020-04-01","2020-04-01","2020-04-01","2020-04-01","2020-04-01","2020-04-01","2020-04-01","2020-04-01","2020-04-01","2020-03-31","2020-03-31","2020-03-31","2020-03-31","2020-03-31","2020-03-31","2020-03-31","2020-03-31","2020-03-31","2020-03-31","2020-03-31","2020-03-31","2020-03-31","2020-03-31","2020-03-31","2020-03-31","2020-03-31","2020-03-31","2020-03-31","2020-03-30","2020-03-30","2020-03-30","2020-03-30","2020-03-30","2020-03-30","2020-03-30","2020-03-30","2020-03-30","2020-03-30","2020-03-30","2020-03-30","2020-03-30","2020-03-30","2020-03-30","2020-03-30","2020-03-30","2020-03-30","2020-03-30","2020-03-29","2020-03-29","2020-03-29","2020-03-29","2020-03-29","2020-03-29","2020-03-29","2020-03-29","2020-03-29","2020-03-29","2020-03-29","2020-03-29","2020-03-29","2020-03-29","2020-03-29","2020-03-29","2020-03-29","2020-03-29","2020-03-29","2020-03-28","2020-03-28","2020-03-28","2020-03-28","2020-03-28","2020-03-28","2020-03-28","2020-03-28","2020-03-28","2020-03-28","2020-03-28","2020-03-28","2020-03-28","2020-03-28","2020-03-28","2020-03-28","2020-03-28","2020-03-27","2020-03-27","2020-03-27","2020-03-27","2020-03-27","2020-03-27","2020-03-27","2020-03-27","2020-03-27","2020-03-27","2020-03-27","2020-03-27","2020-03-27","2020-03-27","2020-03-27","2020-03-27","2020-03-27","2020-03-26","2020-03-26","2020-03-26","2020-03-26","2020-03-26","2020-03-26","2020-03-26","2020-03-26","2020-03-26","2020-03-26","2020-03-26","2020-03-26","2020-03-26","2020-03-26","2020-03-26","2020-03-26","2020-03-25","2020-03-25","2020-03-25","2020-03-25","2020-03-25","2020-03-25","2020-03-25","2020-03-25","2020-03-25","2020-03-25","2020-03-25","2020-03-25","2020-03-25","2020-03-25","2020-03-25","2020-03-25","2020-03-24","2020-03-24","2020-03-24","2020-03-24","2020-03-24","2020-03-24","2020-03-24","2020-03-24","2020-03-24","2020-03-24","2020-03-24","2020-03-24","2020-03-24","2020-03-24","2020-03-24","2020-03-23","2020-03-23","2020-03-23","2020-03-23","2020-03-23","2020-03-23","2020-03-23","2020-03-23","2020-03-23","2020-03-23","2020-03-23","2020-03-23","2020-03-23","2020-03-23","2020-03-22","2020-03-22","2020-03-22","2020-03-22","2020-03-22","2020-03-22","2020-03-22","2020-03-22","2020-03-22","2020-03-22","2020-03-22","2020-03-22","2020-03-22","2020-03-21","2020-03-21","2020-03-21","2020-03-21","2020-03-21","2020-03-21","2020-03-21","2020-03-21","2020-03-21","2020-03-21","2020-03-21","2020-03-21","2020-03-21","2020-03-20","2020-03-20","2020-03-20","2020-03-20","2020-03-20","2020-03-20","2020-03-20","2020-03-20","2020-03-20","2020-03-20","2020-03-20","2020-03-20","2020-03-20","2020-03-19","2020-03-19","2020-03-19","2020-03-19","2020-03-19","2020-03-19","2020-03-19","2020-03-19","2020-03-19","2020-03-19","2020-03-19","2020-03-19","2020-03-19","2020-03-18","2020-03-18","2020-03-18","2020-03-18","2020-03-18","2020-03-18","2020-03-18","2020-03-18","2020-03-18","2020-03-18","2020-03-18","2020-03-18","2020-03-17","2020-03-17","2020-03-17","2020-03-17","2020-03-17","2020-03-17","2020-03-17","2020-03-17","2020-03-17","2020-03-17","2020-03-17","2020-03-16","2020-03-16","2020-03-16","2020-03-16","2020-03-16","2020-03-16","2020-03-16","2020-03-16","2020-03-16","2020-03-16","2020-03-15","2020-03-15","2020-03-15","2020-03-15","2020-03-15","2020-03-15","2020-03-15","2020-03-15","2020-03-15","2020-03-15","2020-03-14","2020-03-14","2020-03-14","2020-03-14","2020-03-14","2020-03-13","2020-03-13","2020-03-13","2020-03-13","2020-03-13","2020-03-12","2020-03-11","2020-03-10","2020-03-09","2020-03-08","2020-03-07","2020-03-06"]],"container":"<table class=\"display\">\n  <thead>\n    <tr>\n      <th>REGION<\/th>\n      <th>Positivos_PCR<\/th>\n      <th>Positivos_PR<\/th>\n      <th>Positivos_totales<\/th>\n      <th>Dia<\/th>\n    <\/tr>\n  <\/thead>\n<\/table>","options":{"pageLength":10,"lengthMenu":[10,25,40],"language":{"lengthMenu":"Mostrar _MENU_ entradas","info":"Mostrando _START_ al _END_ de _TOTAL_ entradas","search":"Buscar:","paginate":{"previous":"Anterior","next":"Siguiente"}},"columnDefs":[{"className":"dt-right","targets":[1,2,3]}],"order":[],"autoWidth":false,"orderClasses":false}},"evals":[],"jsHooks":[]}</script>
 </div>
 
 
